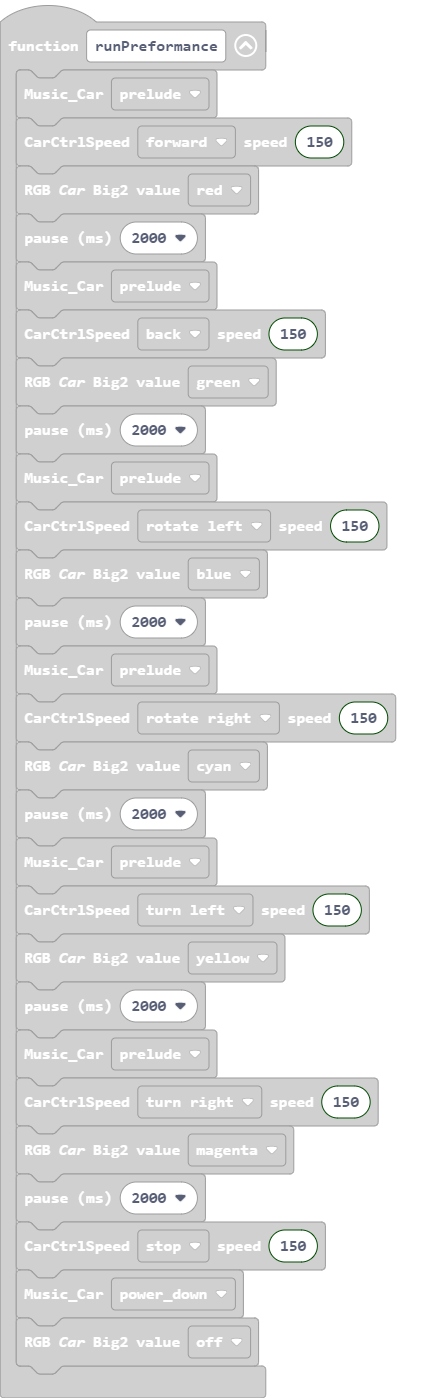
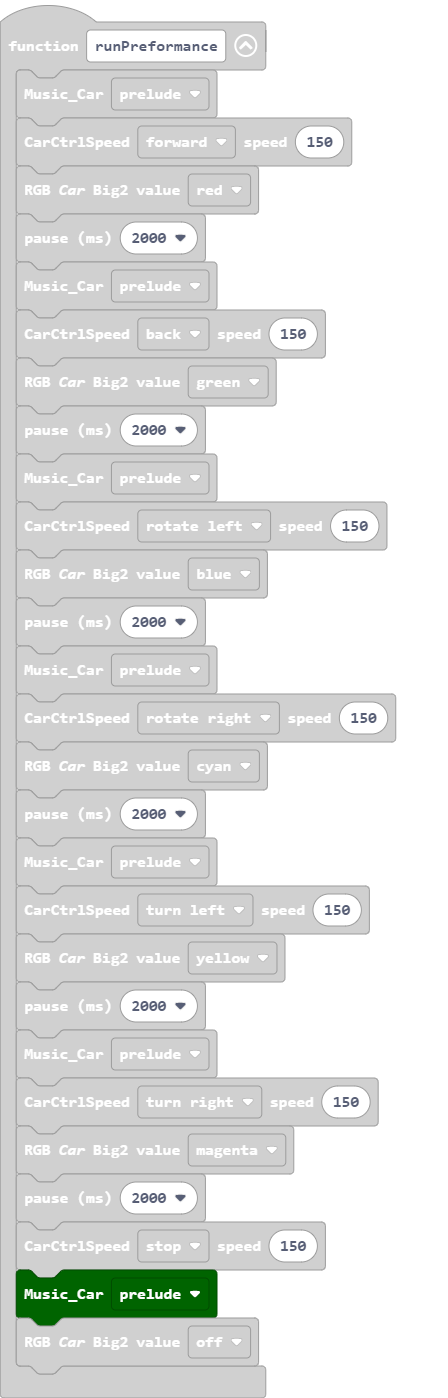
Changed 'power_down' to 'prelude'.

Changed region(s): [[0.0312, 0.892, 0.5625, 0.9535], [0.7188, 0.769, 0.75, 0.7997]]

diff --git a/main.ts b/main.ts
@@ -24,7 +24,7 @@ function runPreformance () {
     mbit_Robot.RGB_Car_Big2(mbit_Robot.enColor.Pinkish)
     basic.pause(2000)
     mbit_Robot.CarCtrlSpeed(mbit_Robot.CarState.Car_Stop, 150)
-    mbit_Robot.Music_Car(mbit_Robot.enMusic.power_down)
+    mbit_Robot.Music_Car(mbit_Robot.enMusic.prelude)
     mbit_Robot.RGB_Car_Big2(mbit_Robot.enColor.OFF)
 }
 basic.showLeds(`
